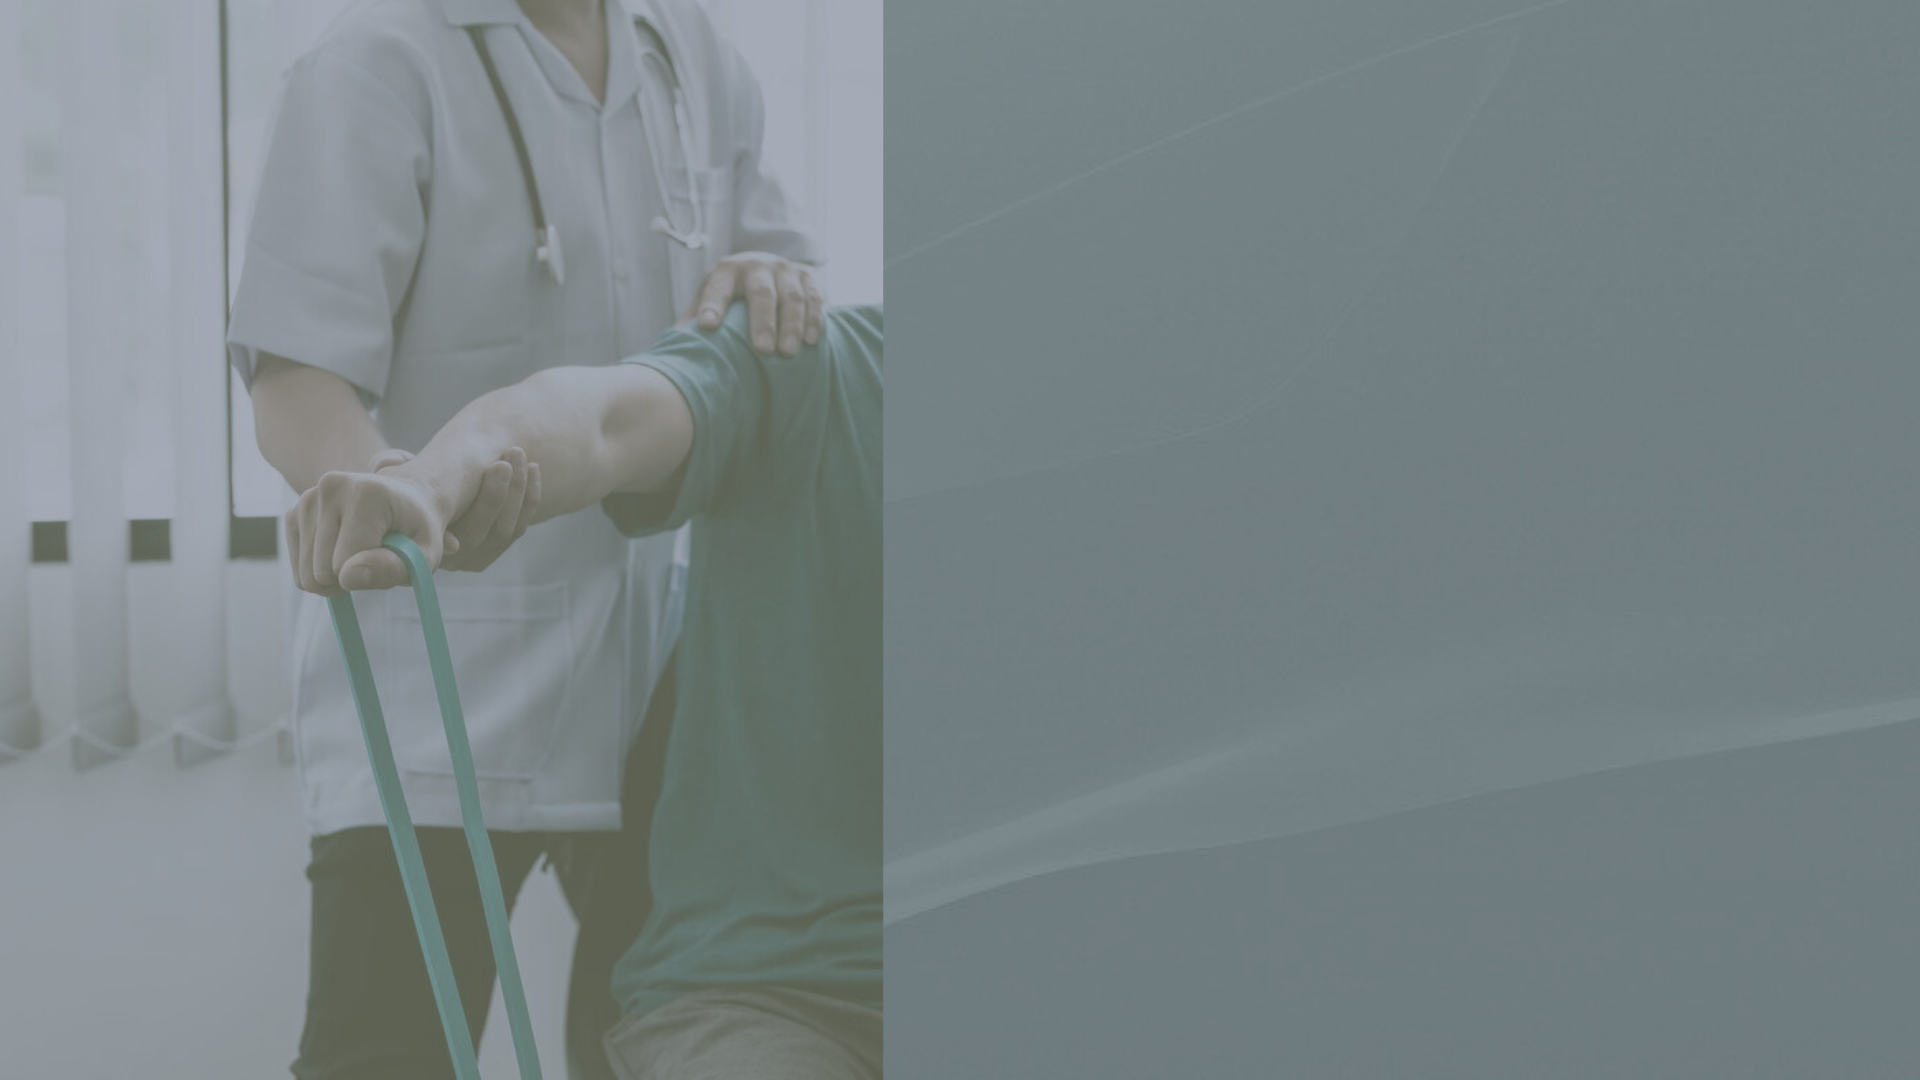
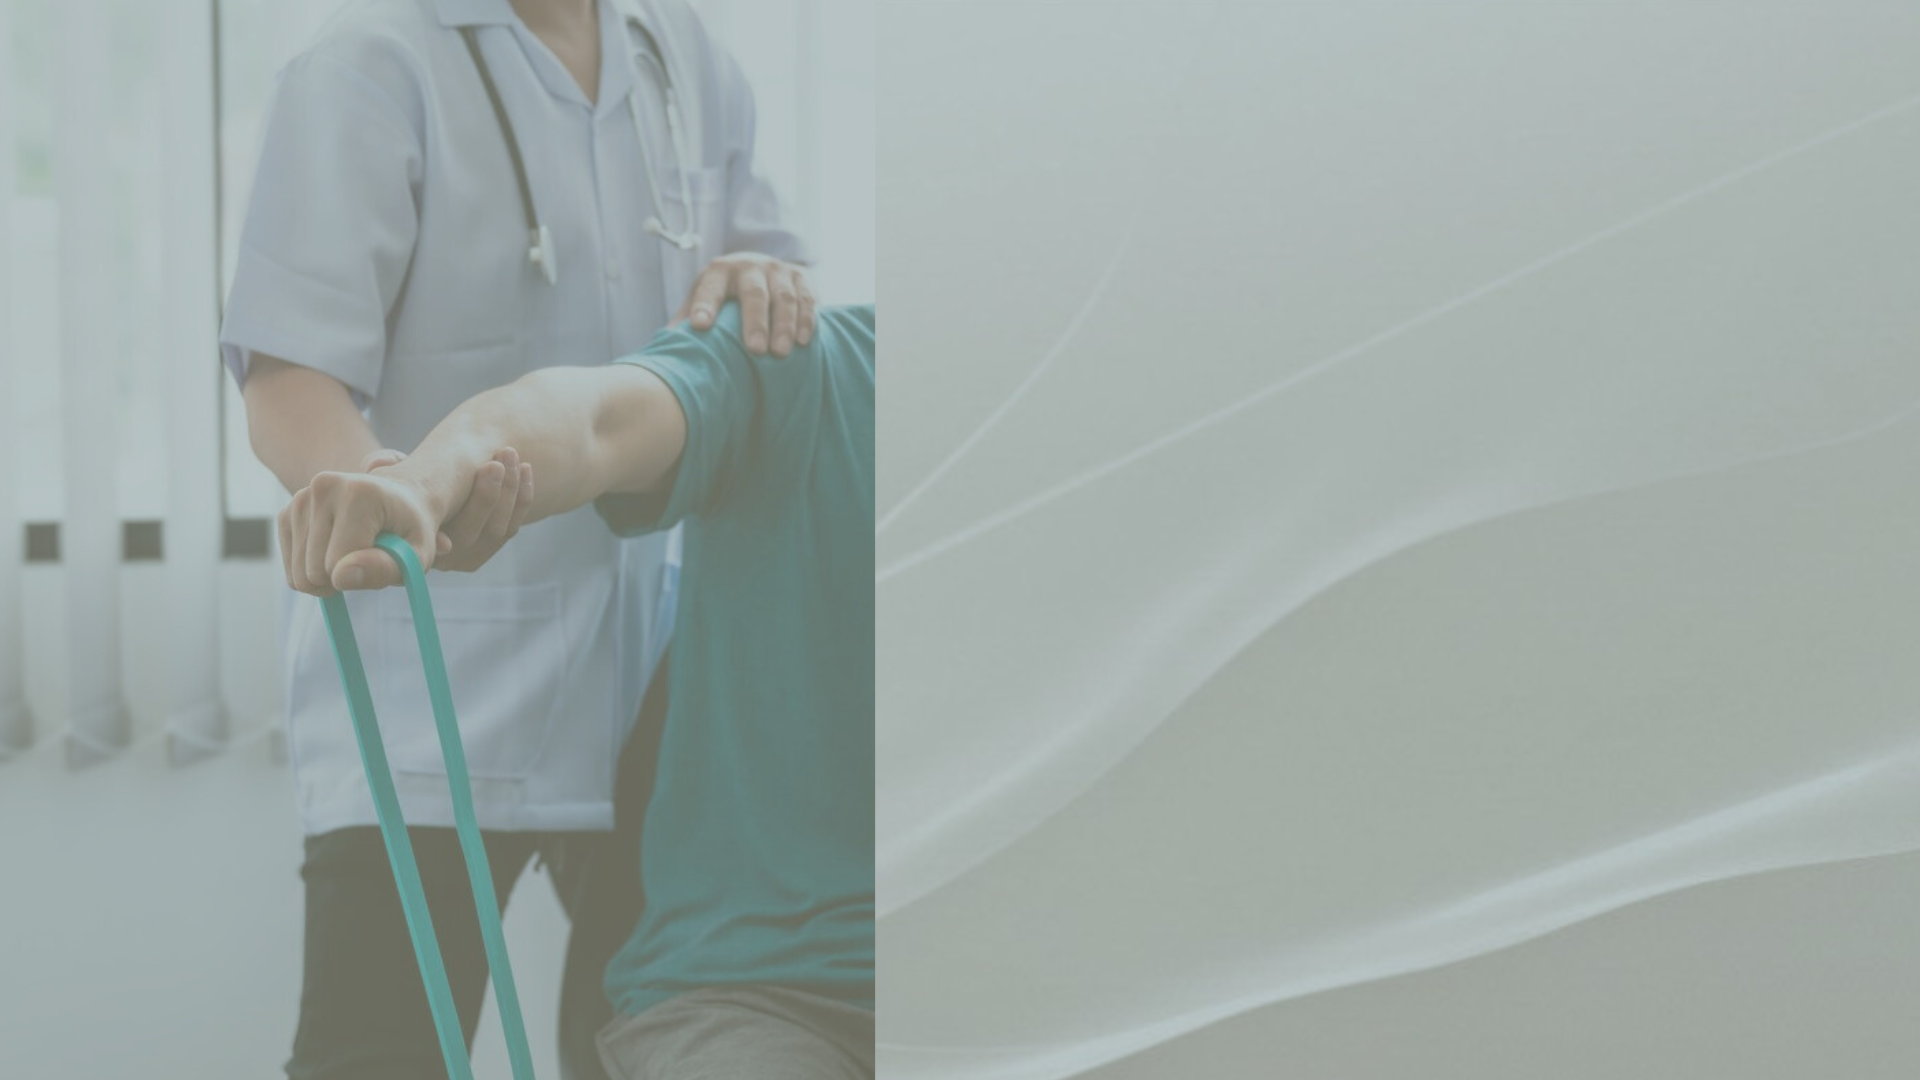
backgrount

diff --git a/indexDoctor.html b/indexDoctor.html
@@ -9,25 +9,46 @@
     </head>
 
     <body>
+
+        <!-- Nav Bar -->
+        <header class="header">
+            <div class="logo">
+                <a href="indexPatient.html"><img src="img/Logo.png" alt="logo"></a>
+                <span> <a href="indexPatient.html">TheraFlex</a></span>
+            </div>
+            <div class="hamburger" id="hamburger">
+                <span></span>
+                <span></span>
+                <span></span>
+                <span></span>
+            </div>
+            <div class="navigation">
+              <ul class="nav-links">
+                <li><a href="indexDoctor.html">Home</a></li>
+                <li><a href="#docAppointmentnav">Upcoming Appointments</a></li>
+                <li><a href="#docPatientsnav">Patients</a></li>
+                <li><a href="#contactUsnav">Contact Us</a></li>
+                <li class="logout-mobile"><a href="index.html">Log out</a></li> <!-- Only for mobile -->
+              </ul>
+            </div>
+            <div class="logout">
+              <a href="index.html">Log out</a>
+            </div>
+          </header>
+
+
        
-        <div class="docBanner">
+        <div class="patBanner">
             
             <!-- navbar -->
-         <div class="navbar">
-            <ul>
-                <li><a href="indexDoctor.html"><img src="img/Logo.png" alt="logo"></a></li>
-            </ul>
-         </div>
-
             <img src="img/docBanner.png" alt="DoctorBanner">
-            <p id="logout"><a href="index.html">Log out</a></p>
             <h2>Welcome [name]</h2>
             <div class="docInfo">
                 <p>[Doctor Information]</p>
             </div>
         </div>
 
-        <div class="docAppointment">
+        <div class="docAppointment" id="docAppointmentnav">
             <h2>Upcoming Appointments</h2>
             <table>
                 <tr>
@@ -61,7 +82,7 @@
             </table>
         </div>
 
-        <div class="docPatients">
+        <div class="docPatients" id="docPatientsnav">
             <h2>Your Patients</h2>
             <table>
                 <tr>
@@ -87,7 +108,7 @@
             </table>
         </div>
 
-        <footer>
+        <footer id="contactUsnav">
             <div class="contactusSec">
                 <h4>Contact Us</h4>
                 <p>Email: info@TheraFlex.com</p>

diff --git a/indexPatient.html b/indexPatient.html
@@ -2,12 +2,14 @@
 <html> 
     <head> 
         <meta charset="utf-8">
-        <title>Home - Pateint</title>
+        <title>TheraFlex - Home</title>
         <link rel="stylesheet" href="style.css">  
         <link rel="icon" href="img/Logo.png" type="image/x-icon">
         <meta name="viewport" content="width=device-width, initial-scale=1.0">  
     </head> 
     <body> 
+
+        <!-- Nav Bar -->
         <header class="header">
             <div class="logo">
                 <a href="indexPatient.html"><img src="img/Logo.png" alt="logo"></a>
@@ -38,7 +40,7 @@
                     <li><a href="indexPatient.html"><img src="img/Logo.png" alt="logo"></a></li>
                 </ul>
              </div> -->
-            <img src="img/patBanner.png" alt="Patient Banner">
+            <img src="img/banner2.png" alt="Patient Banner">
             <!-- <p id="logout"><a href="">Log out</a></p> -->
             <h2>Welcome [name]</h2>
             <div>

diff --git a/style.css b/style.css
@@ -400,18 +400,18 @@ footer .logoSec{
 }
 .patBanner h2{
     position: absolute;
-    top: 50%;
+    top: 30%;
     left: 9%;
-    font-size: 25pt;
+    font-size: 50pt;
     text-align: left;
 }
 .patBanner p{
     position: absolute;
-    top: 60%;
+    top: 45%;
     left: 9%;
-    font-size: 20pt;
+    font-size: 30pt;
     text-align: left;
-    /* padding-left: 30pt; */
+    
 }
 .BookAppointment{
     padding-top: 20pt;

diff --git a/AppointmentBooking.html b/AppointmentBooking.html
@@ -10,7 +10,7 @@
            /* Body Styling */
             body {
                 margin: 0;
-                background: url('img/AppointmentsBackground.jpg') no-repeat center center fixed;
+                background: url('img/appointment2.png') no-repeat center center fixed;
                 background-size: cover;
                 min-height: 100vh;
                 display: flex;
